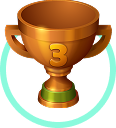
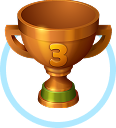
fix: fix ui homepage #305

Changed region(s): [[0.0, 0.3125, 1.0, 1.0], [0.8534, 0.25, 0.8793, 0.3125], [0.1293, 0.25, 0.1552, 0.3125]]

diff --git a/packages/themes/src/aiedu/_utils/constants.ts b/packages/themes/src/aiedu/_utils/constants.ts
@@ -1,7 +1,7 @@
 import type { TrophyType } from '../_components/trophy-card';
 
 export const BG_TROPHY: Record<TrophyType, string> = {
-  silver: 'bg-info/50',
+  silver: 'bg-secondary',
   gold: 'bg-warning ',
-  bronze: 'bg-secondary',
+  bronze: 'bg-info',
 };
